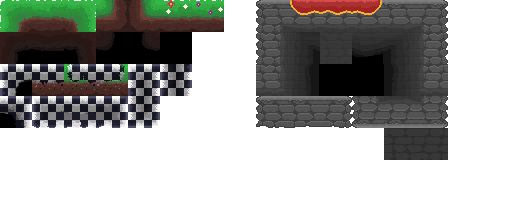
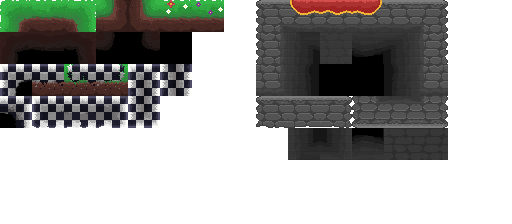
Fixed tiles set, fixed bishop and some listener bugs

Changed region(s): [[0.5625, 0.5625, 0.75, 0.7188]]

diff --git a/src/main/java/chessgame/entities/ThePope.java b/src/main/java/chessgame/entities/ThePope.java
@@ -4,6 +4,9 @@ import com.badlogic.gdx.graphics.g2d.Batch;
 import com.badlogic.gdx.graphics.g2d.Sprite;
 import com.badlogic.gdx.math.Vector2;
 import com.badlogic.gdx.physics.box2d.Body;
+import com.badlogic.gdx.physics.box2d.BodyDef;
+import com.badlogic.gdx.physics.box2d.FixtureDef;
+import com.badlogic.gdx.physics.box2d.PolygonShape;
 import com.badlogic.gdx.physics.box2d.World;
 
 import chessgame.utils.Constants;
@@ -14,6 +17,7 @@ public class ThePope implements IEnemies {
 	Vector2 position;
 	World world;
 	EntityManager entityManager;
+	Body myBody;
 	
 	float health;
 	float attack;
@@ -32,44 +36,61 @@ public class ThePope implements IEnemies {
 	
 	@Override
 	public void createBody() {
-		// TODO Auto-generated method stub
+		BodyDef bodyDef = new BodyDef();
+		bodyDef.type = BodyDef.BodyType.DynamicBody;
+		bodyDef.position.set(new Vector2(position.x, position.y));
 		
+		myBody = world.createBody(bodyDef);
+		
+		PolygonShape shape = new PolygonShape();
+		shape.setAsBox(width, height);
+		
+		myBody.createFixture(shape, 1f).setUserData("Enemy");;
+		myBody.setFixedRotation(true);
+		myBody.setUserData(this);
+		
+		//adding a weakpoint
+		addNewBoxSensor(myBody, width * 0.95f, height / 3.5f, new Vector2(0f, height), "weakpoint");
 	}
 
 	@Override
 	public Vector2 getPosition() {
-		// TODO Auto-generated method stub
-		return null;
+		return position;
 	}
 
 	@Override
 	public void move(Vector2 newPos) {
-		// TODO Auto-generated method stub
+	}
+	
+	void addNewBoxSensor(Body thisBody, float length, float height, Vector2 centerPosition, String userData) {
+		PolygonShape shape = new PolygonShape();
+		//creating a fixture that will serve as a sensor for the pawn
+		FixtureDef fixDef = new FixtureDef();
+		fixDef.isSensor = true;
+		shape.setAsBox(length, height, centerPosition, 0);
+		fixDef.shape = shape;
 		
+		myBody.createFixture(fixDef).setUserData(userData);
 	}
 
 	@Override
 	public Sprite getSprite() {
-		// TODO Auto-generated method stub
 		return null;
 	}
 
 	@Override
 	public Body getBody() {
-		// TODO Auto-generated method stub
 		return null;
 	}
 
 	@Override
 	public void kill() {
-		// TODO Auto-generated method stub
-		
+		entityManager.removeEntity(this);
 	}
 
 	@Override
 	public void removeBody() {
-		// TODO Auto-generated method stub
-		
+		world.destroyBody(myBody);
 	}
 
 	@Override

diff --git a/src/main/java/chessgame/entities/BlockClock.java b/src/main/java/chessgame/entities/BlockClock.java
@@ -1,17 +1,27 @@
 package chessgame.entities;
 
+import java.util.Map.Entry;
+
+import com.badlogic.gdx.Gdx;
 import com.badlogic.gdx.graphics.g2d.Batch;
 import com.badlogic.gdx.graphics.g2d.Sprite;
 import com.badlogic.gdx.math.Vector2;
 import com.badlogic.gdx.physics.box2d.Body;
+import com.badlogic.gdx.physics.box2d.World;
+
+import chessgame.utils.EntityManager;
 
 public class BlockClock implements IObjects {
 	
+	EntityManager entityManager;
+	float timer = 0;
+	float maxTime = 0;
 	/**
 	 * A helping class for RBlock
 	 */
-	public BlockClock() {
-		
+	public BlockClock(EntityManager entityManager, float maxTime) {
+		this.entityManager = entityManager;
+		this.maxTime = maxTime;
 	}
 	
 	@Override
@@ -42,7 +52,7 @@ public class BlockClock implements IObjects {
 		// TODO Auto-generated method stub
 		
 	}
-
+ 
 	@Override
 	public void removeBody() {
 		// TODO Auto-generated method stub
@@ -51,20 +61,26 @@ public class BlockClock implements IObjects {
 
 	@Override
 	public void updateState(Batch batchs) {
-		// TODO Auto-generated method stub
-		
+		timer += Gdx.graphics.getDeltaTime();
+		if(timer >= maxTime) {
+			itemFunction(null);
+		}
 	}
 
 	@Override
 	public void initialize() {
-		// TODO Auto-generated method stub
-		
+		entityManager.addEntity(this);
 	}
 
 	@Override
 	public void itemFunction(Player player) {
-		// TODO Auto-generated method stub
-		
+		for(Entry<Integer, BBlock> entry : entityManager.bBlockMap.entrySet()) {
+			entry.getValue().bBlockState();
+		}
+		for(Entry<Integer, RBlock> entry : entityManager.rBlockMap.entrySet()) {
+			entry.getValue().rBlockState();
+		}
+		timer = 0;
 	}
 	
 }

diff --git a/src/main/java/chessgame/world/PhysicsWorld.java b/src/main/java/chessgame/world/PhysicsWorld.java
@@ -16,6 +16,7 @@ import com.badlogic.gdx.physics.box2d.World;
 import chessgame.app.Game;
 import chessgame.entities.BBlock;
 import chessgame.entities.Bishop;
+import chessgame.entities.BlockClock;
 import chessgame.entities.Bullet;
 import chessgame.entities.Button;
 import chessgame.entities.Door;
@@ -181,6 +182,11 @@ public class PhysicsWorld {
 			int xVal = (int) entity.getProperties().get("xVal");
 			int yVal = (int) entity.getProperties().get("yVal");
 			Game.mapSize = new Vector2(xVal, yVal);
+		}
+		if(entity.getName().toLowerCase().equals("blockclock")) {
+			float timer = (float) entity.getProperties().get("timer");
+			BlockClock blockclock = new BlockClock(manager, timer);
+			blockclock.initialize();
 		}
 		if(entity.getName().toLowerCase().equals("bishop")) {
 			Bishop bishop = new Bishop(pos, world, manager);

diff --git a/src/main/java/chessgame/world/ListenerClass.java b/src/main/java/chessgame/world/ListenerClass.java
@@ -45,7 +45,7 @@ public class ListenerClass implements ContactListener{
 		Fixture fixtureA = contact.getFixtureA();
 		Fixture fixtureB = contact.getFixtureB();
 		
-		//checks if the fixture is the "groundCheck-platter" for the player, if it is, we change the players controller isGrounded to true
+		//checks if the fixture is the "groundCheck-platter" for the player, if it is, we change the players controller isGrounded to true		
 		if(fixtureA.getUserData() == "foot" && checkJumpable(fixtureB.getUserData())) {
 		 	player = (Player) fixtureA.getBody().getUserData();
 		 	player.controller.isGrounded = true;

diff --git a/src/main/java/chessgame/entities/BBlock.java b/src/main/java/chessgame/entities/BBlock.java
@@ -63,6 +63,7 @@ public class BBlock implements IEntities {
 		
 		myBody.createFixture(shape, 1000f).setUserData("BBlock");;
 		myBody.setFixedRotation(true);
+		myBody.getFixtureList().get(0).setFriction(0);
 		myBody.setUserData(this);
 	}
 
@@ -103,7 +104,7 @@ public class BBlock implements IEntities {
 			sprite = spriteOff;
 		} else {
 			myBody.getFixtureList().get(0).setSensor(false);
-			myBody.setUserData("BBlock");
+			myBody.getFixtureList().get(0).setUserData("BBlock");
 			sprite = spriteOn;
 		}
 		

diff --git a/src/main/java/chessgame/entities/RBlock.java b/src/main/java/chessgame/entities/RBlock.java
@@ -63,6 +63,7 @@ public class RBlock implements IEntities {
 		
 		myBody.createFixture(shape, 1000f).setUserData("RBlock");;
 		myBody.setFixedRotation(true);
+		myBody.getFixtureList().get(0).setFriction(0);
 		myBody.setUserData(this);
 	}
 
@@ -103,7 +104,7 @@ public class RBlock implements IEntities {
 			sprite = spriteOff;
 		} else {
 			myBody.getFixtureList().get(0).setSensor(false);
-			myBody.setUserData("RBlock");
+			myBody.getFixtureList().get(0).setUserData("RBlock");
 			sprite = spriteOn;
 		}
 		

diff --git a/src/main/java/chessgame/entities/bishopStates/BishopIdleState.java b/src/main/java/chessgame/entities/bishopStates/BishopIdleState.java
@@ -26,7 +26,7 @@ public class BishopIdleState extends BishopState{
 		Player player = bishop.getClosestPlayer(10f);
 		if(player != null) {
 			
-			if(Math.abs(player.getPosition().x - bishop.getPosition().x) < 3.5f)
+			if(Math.abs(player.getPosition().x - bishop.getPosition().x) < 3.5f && player.getPosition().y < bishop.getPosition().y -.3f)
 				bishop.changeState(bishop.bishopRetreatState);
 			else if(waitTime > 1f) {
 				bishop.changeState(bishop.bishopFireState);

diff --git a/src/main/java/chessgame/entities/Bishop.java b/src/main/java/chessgame/entities/Bishop.java
@@ -85,8 +85,6 @@ public class Bishop implements IEnemies {
 		
 		//adding a weakpoint
 		addNewBoxSensor(myBody, width * 0.95f, height / 3.5f, new Vector2(0f, height), "weakpoint");
-				
-
 	}
 	
 	
